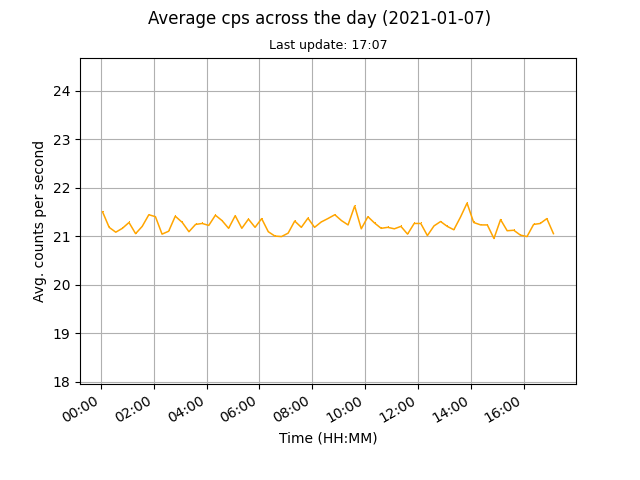
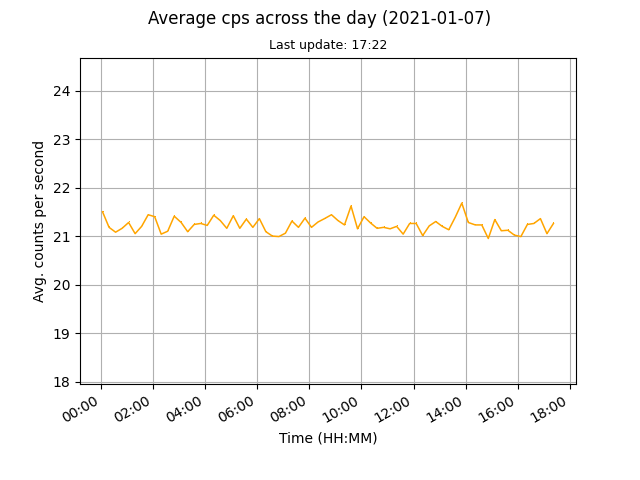
auto data update

diff --git a/docs/index.html b/docs/index.html
@@ -45,8 +45,8 @@
 	
 	<br>
 	
-	<p>Current counts per second (cps): 21.05</p>
-	<p>Last update: 2021-01-07, 17:07</p>
+	<p>Current counts per second (cps): 21.26</p>
+	<p>Last update: 2021-01-07, 17:22</p>
 
 	<p><a href="images/monthly.png"><img src="images/monthly.png" alt="Mothly avg cps data"></a><a href="images/daily.png"><img src="images/daily.png" alt="Daily avg cps data"></a></p>
 	
